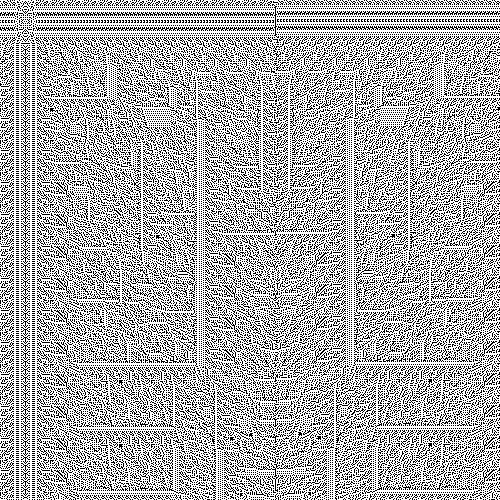
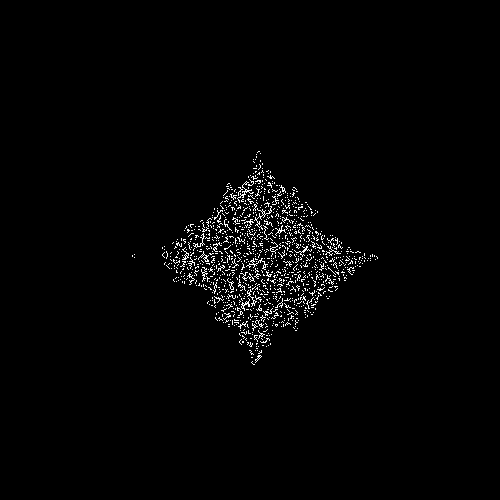
updated seeds example

diff --git a/mod.ts b/mod.ts
@@ -23,6 +23,9 @@ const builder = new IDGBuilder({
 //////////////////////////////////////////////////////////////////////////////////////////
 //////////////////////////////////////////////////////////////////////////////////////////
 
+function randomB(min:number, max:number){
+    return Math.floor(Math.random() * (max - min + 1) + min)
+}
 
 
 const liveColor = combineRGB([255,255,255]);
@@ -35,6 +38,17 @@ builder.modifyPixelAt(27, 20, liveColor);
 builder.modifyPixelAt(23, 22, liveColor);
 builder.modifyPixelAt(25, 22, liveColor);
 builder.modifyPixelAt(27, 22, liveColor);
+
+const middle = size / 2;
+builder.modifyPixelAt(randomB(middle - 5, middle + 5), randomB(middle - 10, middle + 10), liveColor);
+builder.modifyPixelAt(randomB(middle - 5, middle + 5), randomB(middle - 10, middle + 10), liveColor);
+builder.modifyPixelAt(randomB(middle - 5, middle + 5), randomB(middle - 10, middle + 10), liveColor);
+builder.modifyPixelAt(randomB(middle - 5, middle + 5), randomB(middle - 10, middle + 10), liveColor);
+builder.modifyPixelAt(randomB(middle - 5, middle + 5), randomB(middle - 10, middle + 10), liveColor);
+builder.modifyPixelAt(randomB(middle - 5, middle + 5), randomB(middle - 10, middle + 10), liveColor);
+builder.modifyPixelAt(randomB(middle - 5, middle + 5), randomB(middle - 10, middle + 10), liveColor);
+
+
 
 builder.RENDER();
 

diff --git a/examples/seeds/source.ts b/examples/seeds/source.ts
@@ -10,6 +10,10 @@ const builder = new IDGBuilder({
     width: size, height: size
 });
 
+function randomB(min:number, max:number){
+    return Math.floor(Math.random() * (max - min + 1) + min)
+}
+
 const liveColor = combineRGB([255,255,255]);
 const deadColor = combineRGB([0,0,0]);
 
@@ -20,6 +24,15 @@ builder.modifyPixelAt(27, 20, liveColor);
 builder.modifyPixelAt(23, 22, liveColor);
 builder.modifyPixelAt(25, 22, liveColor);
 builder.modifyPixelAt(27, 22, liveColor);
+
+const middle = size / 2;
+builder.modifyPixelAt(randomB(middle - 5, middle + 5), randomB(middle - 10, middle + 10), liveColor);
+builder.modifyPixelAt(randomB(middle - 5, middle + 5), randomB(middle - 10, middle + 10), liveColor);
+builder.modifyPixelAt(randomB(middle - 5, middle + 5), randomB(middle - 10, middle + 10), liveColor);
+builder.modifyPixelAt(randomB(middle - 5, middle + 5), randomB(middle - 10, middle + 10), liveColor);
+builder.modifyPixelAt(randomB(middle - 5, middle + 5), randomB(middle - 10, middle + 10), liveColor);
+builder.modifyPixelAt(randomB(middle - 5, middle + 5), randomB(middle - 10, middle + 10), liveColor);
+builder.modifyPixelAt(randomB(middle - 5, middle + 5), randomB(middle - 10, middle + 10), liveColor);
 
 builder.RENDER();
 
